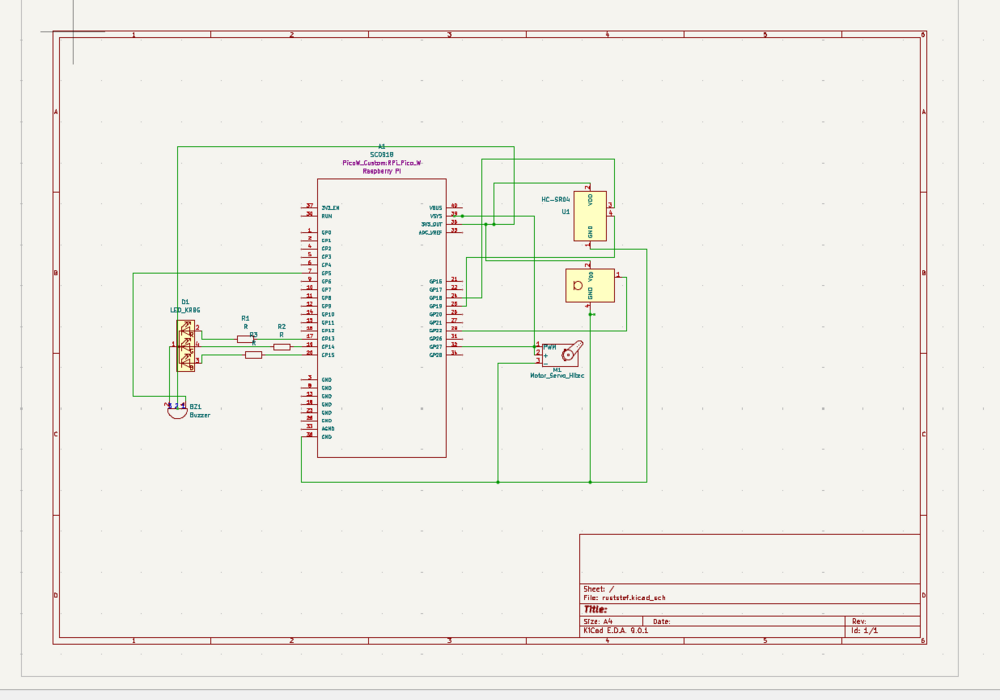
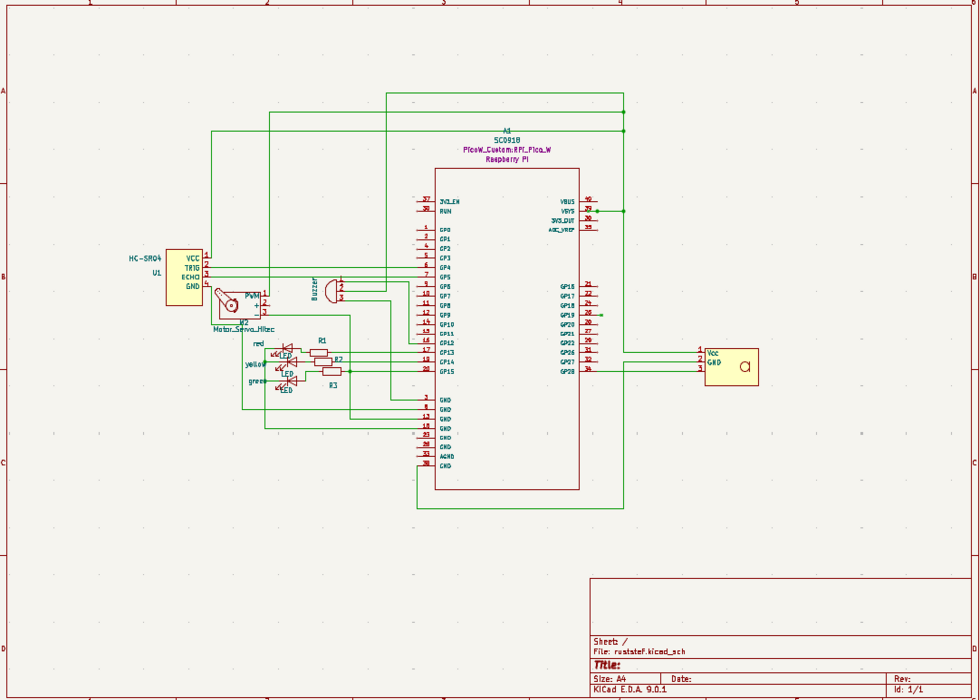
Log in+picture update

Changed region(s): [[0.0, 0.0, 1.0, 1.0], [0.1224, 0.12, 0.7959, 0.72], [0.5816, 0.66, 0.6429, 0.69]]

diff --git a/website/versioned_docs/version-fils_en/project/2025/stefania.croitoru04/index.md b/website/versioned_docs/version-fils_en/project/2025/stefania.croitoru04/index.md
@@ -37,6 +37,8 @@ A laptop connects to the Raspberry Pi Pico 2W via Wi-Fi, it displays motion and 
 
 ### Week 6 - 12 May
 
+I assembled the components on a breadboard for testing, created the initial KiCad schematics, and tested each component’s code individually to ensure proper functionality.
+
 ### Week 7 - 19 May
 
 ### Week 20 - 26 May
@@ -76,7 +78,7 @@ This is the kicad schematic.
 | [Buzzer Module](https://components101.com/misc/buzzer-pinout-working-datasheet) | Used to emit audible alerts | [1 RON](https://www.optimusdigital.ro/en/electronic-components/12598-passive-buzzer-module.html) |
 | [220Ω Resistors (×3)](https://www.electronics-tutorials.ws/resistor/res_1.html) | Used to limit current for the RGB LED | [1.5 RON](https://www.optimusdigital.ro/en/resistors/856-025w-220k-resistor.html) |
 | [Breadboard](https://learn.sparkfun.com/tutorials/how-to-use-a-breadboard/all) | Used to prototype the circuit without soldering | [10 RON](https://www.optimusdigital.ro/en/breadboards/8-breadboard-hq-830-points.html) |
-| [RGB LED](https://components101.com/leds/common-anode-rgb-led-pinout-working-datasheet) | Used to show visual alerts through color | [2 RON](https://www.optimusdigital.ro/en/leds/29-5-mm-red-led-with-difused-lens.html?search_query=led&results=2049) |
+| [LED](https://www.electronics2000.co.uk/pin-out/led.php) | Used to show visual alerts through color | [2 RON](https://www.optimusdigital.ro/en/leds/29-5-mm-red-led-with-difused-lens.html?search_query=led&results=2049) |
 | [Male-Male Jumper Wires](https://www.optimusdigital.ro/en/wires-with-connectors/885-wires-male-male-10p-10cm.html) | Used for general wiring connections | ~7 RON |
 | [Female-Female Jumper Wires](https://www.optimusdigital.ro/en/wires-with-connectors/212-female-female-10p-20-cm-wire.html) | Used to connect between modules and breadboard | ~7 RON |
 | [Female-Male Jumper Wires](https://www.optimusdigital.ro/en/wires-with-connectors/92-female-male-wire40p-20-cm.html) | Used for flexible pin-to-board connections | ~7 RON |
